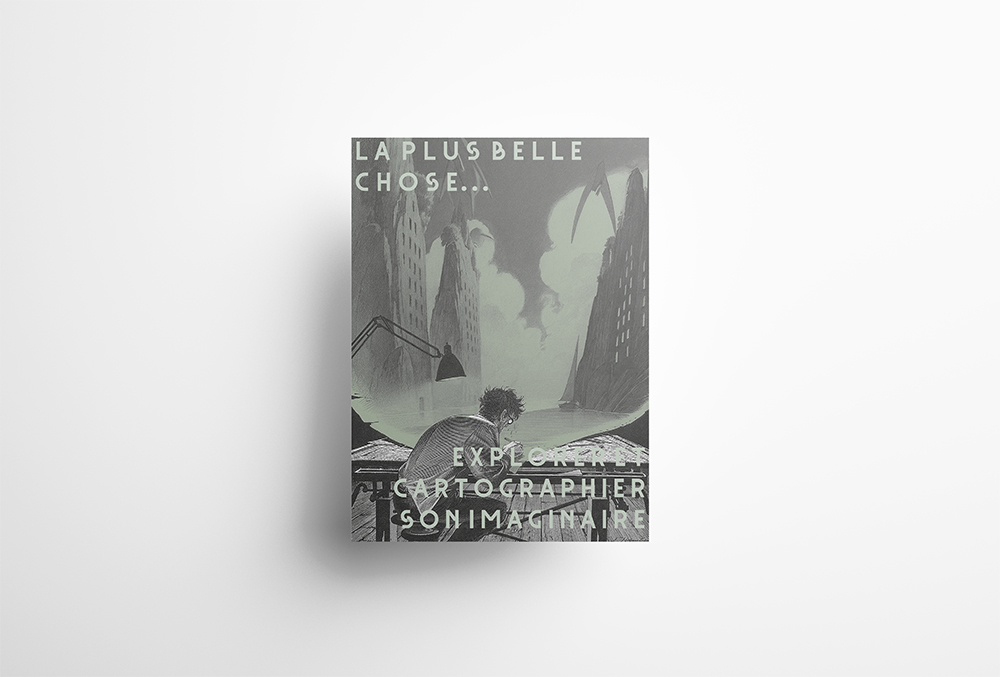
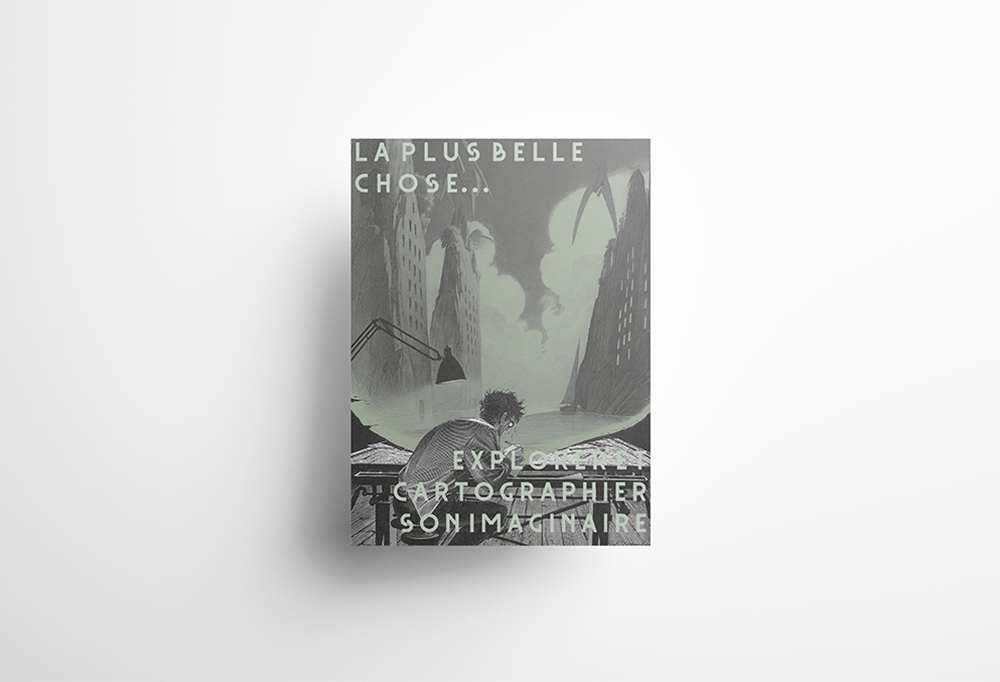
a

diff --git a/jour1/peinture-digitale.html b/jour1/peinture-digitale.html
@@ -8,21 +8,24 @@
     <link rel="stylesheet" href="style2.css">
 </head>
 <body class="index">
-    <h1 class="titre">Peinture Digitale</h1>
+    <header class="header">
+        <h1 class="site-title">Peinture Digitale</h1>
+        <a href="info.html">INFORMATIONS</a>
+    </header>
     <img src="img/COOPER copie.jpg" alt="">
-    <img src="img/EVANGELION 3 copie.jpg" alt="">
-    <img src="img/RILES copie.jpg" alt="">
-    <img src="img/CHAD copie.jpg" alt="">
-    <img src="img/EVANGELION 2 copie.jpg" alt="">
-    <img src="img/TRAVIS 2 copie.jpg" alt="">
-    <img src="img/DRYLAND copie.jpg" alt="">
-    <img src="img/50-Y-30N 2.0 copie.jpg" alt="">
-    <img class="horizontal" src="img/mono copie.jpg" alt="">
-    <img class="vertical" src="img/spirited away copie.jpg" alt="">
-    <img src="img/DAMSO copie.jpg" alt="">
-    <img src="img/COMPO STELLAIRE.jpg" alt="">
-    <img src="img/SNK COMP copie.jpg" alt="">
-    <img src="img/BR copie.jpg" alt="">
-    <img src="img/JAPAN - Copie copie.jpg" alt="">
+    <img src="img/EVANGELION 3 copie_resultat.jpg" alt="">
+    <img src="img/RILES copie_resultat.jpg" alt="">
+    <img src="img/CHAD copie_resultat.jpg" alt="">
+    <img src="img/evangelion 2 copie_resultat.jpg" alt="">
+    <img src="img/TRAVIS 2 copie_resultat.jpg" alt="">
+    <img src="img/DRYLAND copie_resultat.jpg" alt="">
+    <img src="img/50-Y-30N 2.0 copie_resultat.jpg" alt="">
+    <img class="horizontal" src="img/mono copie_resultat.jpg" alt="">
+    <img class="vertical" src="img/spirited away copie_resultat.jpg" alt="">
+    <img src="img/DAMSO copie_resultat.jpg" alt="">
+    <img src="img/COMPO STELLAIRE_resultat.jpg" alt="">
+    <img src="img/SNK COMP copie_resultat.jpg" alt="">
+    <img src="img/BR copie_resultat.jpg" alt="">
+    <img src="img/JAPAN - Copie copie_resultat.jpg" alt="">
 </body>
 </html>

diff --git a/jour1/style2.css b/jour1/style2.css
@@ -1,9 +1,39 @@
 .index{
     background : rgb(51, 51, 51);
-    display: grid;
-    grid-template-columns: 48% 48%;
-    gap: 0.5%;
     color: white ;
+    gap: 0.5%;
+    margin: 3%;
+}
+
+@media (min-width:660px){
+    .index{
+        display: grid;
+        grid-template-columns: 48% 48%;
+    }
+}
+
+.header{
+    grid-column: 1/3;
+    display: grid;
+    grid-template-columns: 1fr auto;
+    align-items: baseline;
+}
+
+a{
+    color: white;
+    text-decoration: none;
+    font-family: Arial, Helvetica, sans-serif;
+}
+
+.site-title{
+    font-size:clamp(18px,5vw,72px);
+    font-family: Arial, Helvetica, sans-serif;
+}
+
+.system{
+    font-family: Arial, Helvetica, sans-serif;
+    grid-column: 1/3;
+    font-size:clamp(14px,3vw,28px);
 }
 
 img{
@@ -12,15 +42,7 @@ img{
     height: auto;
 }
 
-.system{
-    font-family: Arial, Helvetica, sans-serif;
-    grid-column: 1/3;
-}
 
-.titre{
-    font-family: Arial, Helvetica, sans-serif;
-    grid-column: 1/3;
-}
 
 .horizontal{
     max-width: 100%;

diff --git a/jour1/affiches-schuiten.html b/jour1/affiches-schuiten.html
@@ -1,0 +1,17 @@
+<!DOCTYPE html>
+<html lang="en">
+<head>
+    <meta charset="UTF-8">
+    <meta http-equiv="X-UA-Compatible" content="IE=edge">
+    <meta name="viewport" content="width=device-width, initial-scale=1.0">
+    <title>Document</title>
+    <link rel="stylesheet" href="style2.css">
+</head>
+<body class="index">
+    <h1 class="titre">Affiches Schuiten</h1>
+    <p class="system">Affiches réalisées pour un livre d'artiste</p>
+    <img src="img/affiche 2.jpg" alt="couverture">
+    <img src="img/affiche 3 copie.jpg" alt="">
+    <img class="horizontal" src="img/affiche 1.jpg" alt="">  
+</body>
+</html>

diff --git a/jour1/edition-travis-scott.html b/jour1/edition-travis-scott.html
@@ -8,7 +8,10 @@
      <link rel="stylesheet" href="style2.css">
 </head>
 <body class="index">
-    <h1 class="titre">Edition Travis Scott</h1>
+    <header class="header">
+        <h1 class="site-title">Edition Travis Scott</h1>
+        <a href="info.html">INFORMATIONS</a>
+    </header>
     <p class="system">Edition réalisée suite à la collecte et au classement selon divers citères d'un répertoire d'une centaine d'images issues des clips musicaux de Travis Scott</p>
     <img src="img/mockup 3 copie.jpg" alt="couverture">
     <img src="img/mockup 1 copie.jpg" alt="">

diff --git a/index.html b/index.html
@@ -16,7 +16,7 @@
    <h2><a href="jour1/edition-travis-scott.html">
     <img src="jour1/img/mockup 3 copie.jpg" alt="édition Travis Scott">
    </a>
-   <a href="jour1/affiches Schuiten">
+   <a href="jour1/affiches-schuiten.html">
     <img src="jour1/img/affiche 1.jpg" alt="affiches Schuiten">
    </a>
    <a href="jour1/édition Schuiten(s)">
